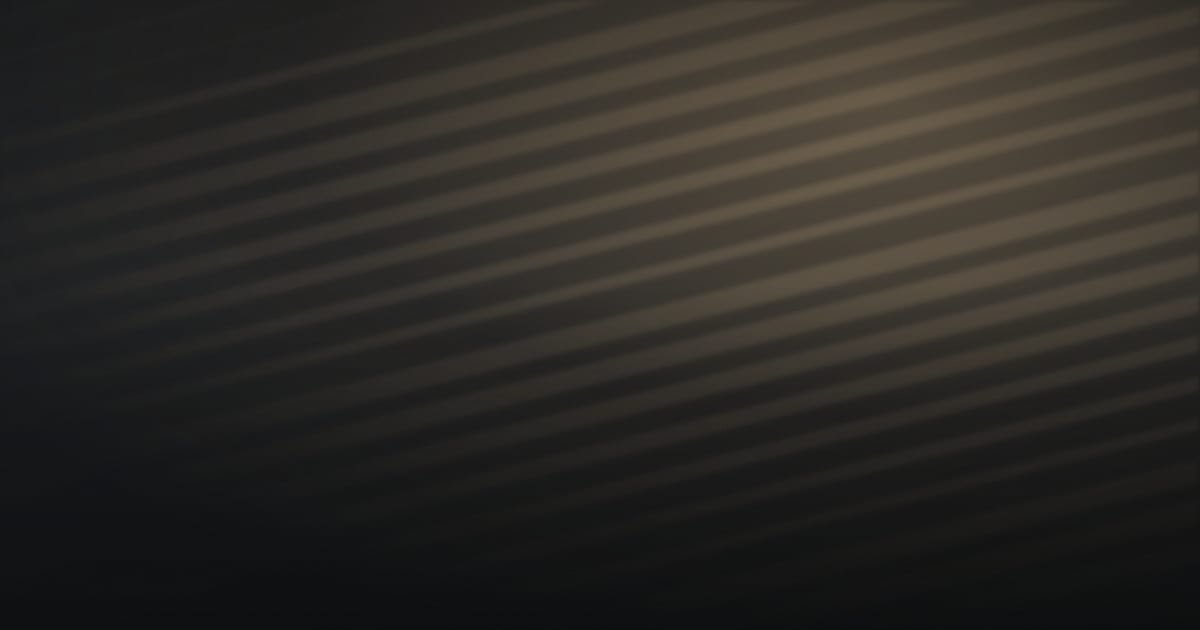
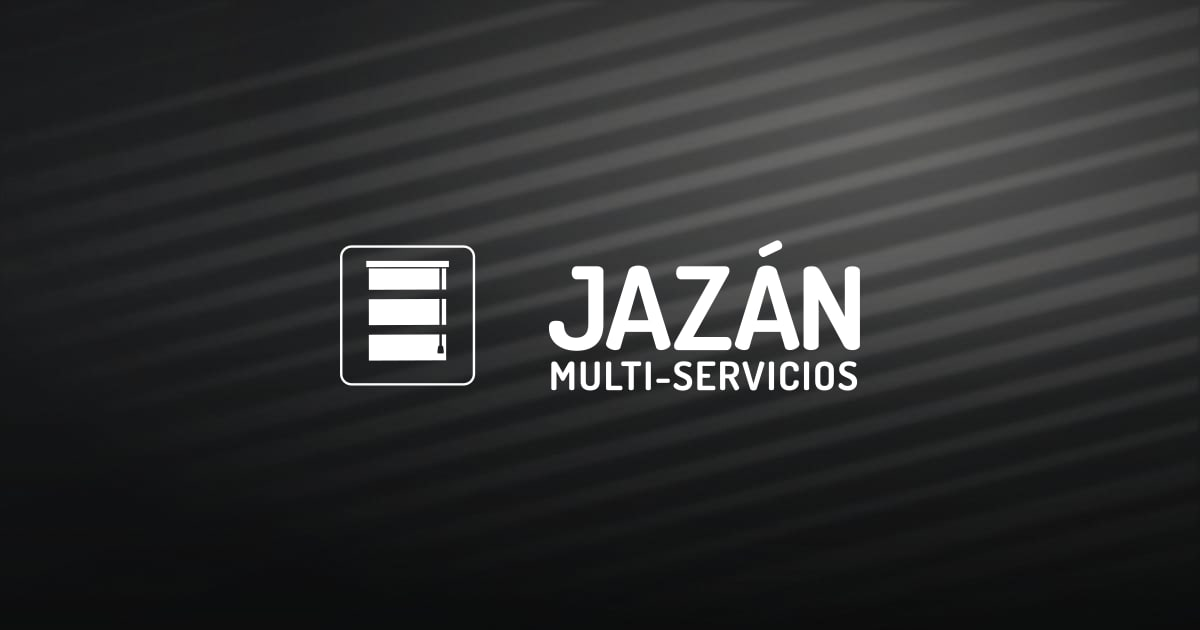
Aplica el logotipo oficial y pasa la paleta a monocromo
- Logotipo real vectorizado desde el PDF de marca: lockup e isotipo en
  /public/brand, y componente Logo con el trazado en línea para heredar
  currentColor (blanco sobre el hero, negro al hacer scroll).
- Favicon e icono de iOS derivados del mismo vector.
- Imagen de Open Graph con el logotipo compuesto.
- Se retira el acento dorado: el detalle ahora es negro, siguiendo el manual
  de marca (negro, blanco y gris). Imágenes regeneradas en escala de grises.

diff --git a/components/Logo.tsx b/components/Logo.tsx
@@ -2,21 +2,22 @@ import { company } from "@/data/company";
 import { cn } from "@/lib/utils";
 
 /**
- * Marca denominativa. Sin ícono a propósito: en móvil cualquier símbolo de
- * líneas compite visualmente con el botón de menú.
+ * Logotipo oficial de Jazán Multiservicios (isotipo + marca denominativa).
+ *
+ * El trazado hereda `currentColor`, así que la misma pieza sirve en blanco
+ * sobre el hero oscuro y en negro sobre fondo claro, sin cambiar de archivo.
+ * El vector original está en /public/brand/jazan-logo.svg.
  */
 export function Logo({ className }: { className?: string }) {
   return (
-    <span
-      className={cn("inline-flex flex-col leading-none", className)}
+    <svg
+      viewBox="190 157 2249 651"
+      role="img"
       aria-label={company.name}
+      className={cn("h-9 w-auto", className)}
+      fill="none"
     >
-      <span className="font-display text-[1.6rem] tracking-[-0.01em]">
-        Jazán
-      </span>
-      <span className="eyebrow mt-1 text-[0.5rem] opacity-55">
-        Multiservicios
-      </span>
-    </span>
+      <path transform="matrix(1,0,0,-1,1,963.64)" d="M239.28 774.26C217.37 774.26 199.54 756.66 199.54 735.02V227.61C199.54 205.98 217.37 188.38 239.28 188.38H723.36C745.28 188.38 763.1 205.98 763.1 227.61V735.02C763.1 756.66 745.28 774.26 723.36 774.26ZM723.36 178.11H239.28C211.63 178.11 189.13 200.32 189.13 227.61V735.02C189.13 762.32 211.63 784.53 239.28 784.53H723.36C751.01 784.53 773.51 762.32 773.51 735.02V227.61C773.51 200.32 751.01 178.11 723.36 178.11" fill="currentColor"/><path transform="matrix(1,0,0,-1,1,963.64)" d="M648.15 593.52 629.41 593.45V684.65H647.98ZM618.92 593.4 313.83 592.17 313.65 684.65H618.92Z" fill="currentColor"/><path transform="matrix(1,0,0,-1,1,963.64)" d="M648.15 440.78 629.41 440.7V552.73L647.93 552.8ZM618.92 440.66 313.83 439.42 313.61 551.45 618.92 552.69Z" fill="currentColor"/><path transform="matrix(1,0,0,-1,1,963.64)" d="M648.15 287.35 313.83 286 313.61 398.03 618.92 399.27V350.63H618.73C615.89 350.63 613.49 348.55 613.12 345.77L610.14 323.19C609.7 319.85 612.33 316.89 615.75 316.89H632.6C636 316.89 638.64 319.85 638.2 323.19L635.21 345.77C634.84 348.55 632.45 350.63 629.61 350.63H629.41V399.31L647.93 399.38Z" fill="currentColor"/><path transform="matrix(1,0,0,-1,1,963.64)" d="M302.69 717.31H659.95V690.49H302.69Z" fill="currentColor" fill-rule="evenodd"/><path transform="matrix(1,0,0,-1,1,963.64)" d="M1211.69 637.5C1198.62 637.5 1191.09 650.9 1191.09 666.27 1191.09 679.66 1197.13 694.04 1211.69 694.04H1299.63C1314.19 694.04 1328.27 687.1 1328.27 673.71V442.07C1328.27 359.25 1276 328.49 1212.7 328.49 1142.85 328.49 1092.62 365.69 1092.62 427.2 1092.62 451.99 1103.16 458.45 1125.28 458.45 1142.36 458.45 1156.42 453.98 1157.93 438.11 1158.92 413.31 1168.98 385.05 1209.67 385.05 1243.84 385.05 1262.94 403.38 1262.94 442.07V637.5Z" fill="currentColor"/><path transform="matrix(1,0,0,-1,1,963.64)" d="M1522.7 460.93 1478.98 613.2 1435.27 460.93ZM1339.3 358.24C1339.3 359.24 1339.8 361.23 1340.32 363.22L1437.29 675.19C1441.81 690.07 1460.39 697.02 1478.98 697.02 1498.07 697.02 1516.68 690.07 1521.18 675.19L1618.17 363.22C1618.67 361.23 1619.17 359.75 1619.17 358.24 1619.17 342.88 1595.55 331.48 1577.97 331.48 1566.93 331.48 1558.37 334.95 1555.85 344.36L1536.76 410.34H1421.71L1402.61 344.36C1400.1 334.95 1391.54 331.48 1380.51 331.48 1362.91 331.48 1339.3 342.38 1339.3 358.24" fill="currentColor"/><path transform="matrix(1,0,0,-1,1,963.64)" d="M1717.14 388.01H1861.85C1874.92 388.01 1882.46 373.14 1882.46 359.74 1882.46 346.35 1874.92 331.48 1861.85 331.48H1653.32C1639.76 331.48 1633.74 338.91 1633.74 349.33 1633.74 355.76 1636.24 364.2 1640.77 371.65L1790.01 637.5H1662.88C1649.82 637.5 1642.77 650.89 1642.77 665.78 1642.77 679.66 1648.81 694.05 1662.88 694.05H1853.81C1866.88 694.05 1873.41 686.6 1873.41 676.68 1873.41 669.74 1870.9 661.8 1865.87 653.38Z" fill="currentColor"/><path transform="matrix(1,0,0,-1,1,963.64)" d="M2027.14 735.72C2024.63 734.72 2022.61 733.73 2020.1 733.73 2009.05 733.73 1999.99 747.12 1999.99 758.03 1999.99 764.48 2002.5 770.42 2008.55 773.4L2074.86 805.14C2077.37 805.65 2079.38 806.14 2081.4 806.14 2092.97 806.14 2101.5 792.74 2101.5 781.83 2101.5 775.88 2098.99 769.93 2092.46 766.96ZM2079.88 460.93 2036.18 613.19 1992.46 460.93ZM1896.49 358.25C1896.49 359.25 1896.99 361.23 1897.5 363.22L1994.47 675.19C1998.99 690.06 2017.58 697.02 2036.18 697.02 2055.27 697.02 2073.86 690.06 2078.37 675.19L2175.36 363.22C2175.86 361.23 2176.36 359.75 2176.36 358.25 2176.36 342.87 2152.75 331.47 2135.16 331.47 2124.11 331.47 2115.57 334.94 2113.05 344.36L2093.96 410.34H1978.91L1959.8 344.36C1957.28 334.94 1948.74 331.47 1937.69 331.47 1920.1 331.47 1896.49 342.38 1896.49 358.25" fill="currentColor"/><path transform="matrix(1,0,0,-1,1,963.64)" d="M2367.28 351.81 2259.25 551.19V351.81C2259.25 338.42 2242.67 331.48 2226.6 331.48 2210.01 331.48 2193.94 338.42 2193.94 351.81V673.71C2193.94 687.6 2210.01 694.04 2226.6 694.04 2250.22 694.04 2259.75 689.07 2275.34 659.83L2372.31 474.81V674.2C2372.31 688.1 2388.39 694.04 2404.97 694.04 2421.05 694.04 2437.64 688.1 2437.64 674.2V351.81C2437.64 338.42 2421.05 331.48 2404.97 331.48 2389.4 331.48 2375.83 336.44 2367.28 351.81" fill="currentColor"/><path transform="matrix(1,0,0,-1,1,963.64)" d="M1160.13 202.76C1158.23 199.36 1155.29 198.34 1152.55 198.34 1149.77 198.34 1147.03 199.36 1145.12 202.76L1125.31 239.5V165.01C1125.31 160.4 1119.63 158.03 1114.11 158.03 1108.44 158.03 1102.91 160.4 1102.91 165.01V271.31C1102.91 279.48 1108.44 282.36 1114.11 282.36 1122.22 282.36 1125.82 280.67 1131.51 270.63L1152.72 232.53 1173.91 270.63C1179.6 280.67 1183.38 282.36 1191.48 282.36 1197.17 282.36 1202.68 279.48 1202.68 271.31V165.01C1202.68 160.4 1197.01 158.03 1191.48 158.03 1185.8 158.03 1180.28 160.4 1180.28 165.01V238.14Z" fill="currentColor"/><path transform="matrix(1,0,0,-1,1,963.64)" d="M1290.08 275.56C1290.08 280.33 1295.59 282.36 1301.28 282.36 1306.79 282.36 1312.48 280.33 1312.48 275.56V195.96C1312.48 167.55 1294.22 157 1271.13 157 1247.86 157 1229.78 167.55 1229.78 195.96V275.56C1229.78 280.33 1235.29 282.36 1240.97 282.36 1246.5 282.36 1252.18 280.33 1252.18 275.56V195.96C1252.18 182.69 1259.24 176.39 1271.13 176.39 1283.02 176.39 1290.08 182.69 1290.08 195.96Z" fill="currentColor"/><path transform="matrix(1,0,0,-1,1,963.64)" d="M1349.4 158.03C1344.41 158.03 1339.58 160.4 1339.58 165.01V275.56C1339.58 280.32 1345.09 282.36 1350.78 282.36 1356.29 282.36 1361.98 280.32 1361.98 275.56V177.42H1404.03C1408.5 177.42 1410.74 172.66 1410.74 167.73 1410.74 162.96 1408.5 158.03 1404.03 158.03Z" fill="currentColor"/><path transform="matrix(1,0,0,-1,1,963.64)" d="M1484.87 282.36C1489.7 282.36 1491.93 277.27 1491.93 272.51 1491.93 267.23 1489.34 262.47 1484.87 262.47H1459.71V165.01C1459.71 160.41 1454.04 158.03 1448.51 158.03 1442.83 158.03 1437.31 160.41 1437.31 165.01V262.47H1411.98C1407.5 262.47 1404.91 267.05 1404.91 272.51 1404.91 277.27 1407.15 282.36 1411.98 282.36Z" fill="currentColor"/><path transform="matrix(1,0,0,-1,1,963.64)" d="M1511.09 275.56C1511.09 280.33 1516.61 282.36 1522.3 282.36 1527.8 282.36 1533.49 280.33 1533.49 275.56V165.01C1533.49 160.4 1527.8 158.03 1522.3 158.03 1516.61 158.03 1511.09 160.4 1511.09 165.01Z" fill="currentColor"/><path transform="matrix(1,0,0,-1,1,963.64)" d="M1563.83 208.03H1608.64C1612.26 208.03 1615.88 203.95 1615.88 198.85 1615.88 193.4 1612.26 189.84 1608.64 189.84H1563.83C1559.71 189.84 1556.95 193.4 1556.95 198.85 1556.95 203.95 1559.71 208.03 1563.83 208.03" fill="currentColor"/><path transform="matrix(1,0,0,-1,1,963.64)" d="M1756.88 228.96H1783.08C1787.56 228.96 1790.14 224.7 1790.14 220.11 1790.14 216.2 1787.9 211.61 1783.08 211.61H1756.88V177.43H1805.64C1810.12 177.43 1812.71 172.82 1812.71 167.54 1812.71 162.95 1810.47 158.02 1805.64 158.02H1744.3C1739.31 158.02 1734.48 160.41 1734.48 165V275.4C1734.48 279.98 1739.31 282.37 1744.3 282.37H1805.64C1810.47 282.37 1812.71 277.42 1812.71 272.85 1812.71 267.57 1810.12 262.98 1805.64 262.98H1756.88Z" fill="currentColor"/><path transform="matrix(1,0,0,-1,1,963.64)" d="M1855.14 262.98V226.74H1874.1C1885.29 226.74 1892.53 231.34 1892.53 244.77 1892.53 258.21 1885.29 262.98 1874.1 262.98ZM1832.74 275.56C1832.74 279.14 1835.67 282.36 1839.98 282.36H1874.1C1896.66 282.36 1914.92 273.86 1914.92 246.82 1914.92 227.25 1905.28 216.7 1892.36 212.8L1914.92 171.46C1915.62 170.62 1915.8 169.42 1915.8 168.75 1915.8 163.14 1908.38 157.18 1901.84 157.18 1898.74 157.18 1895.81 159.05 1894.07 162.45L1869.62 209.4H1855.14V165.01C1855.14 160.4 1849.64 158.03 1843.95 158.03 1838.43 158.03 1832.74 160.4 1832.74 165.01Z" fill="currentColor"/><path transform="matrix(1,0,0,-1,1,963.64)" d="M2043.89 275.56C2043.89 280.33 2049.41 282.36 2055.1 282.36 2060.61 282.36 2066.3 280.33 2066.3 275.56V165.01C2066.3 160.4 2060.61 158.03 2055.1 158.03 2049.41 158.03 2043.89 160.4 2043.89 165.01Z" fill="currentColor"/><path transform="matrix(1,0,0,-1,1,963.64)" d="M2133.16 262.98C2121.62 262.98 2115.07 256.69 2115.07 243.41V195.95C2115.07 182.7 2121.62 176.39 2133.49 176.39 2149.18 176.39 2150.56 187.45 2151.09 194.59 2151.43 199.87 2156.25 201.57 2162.11 201.57 2169.86 201.57 2173.49 199.36 2173.49 190.69 2173.49 170.1 2156.42 157 2132.3 157 2110.58 157 2092.67 167.55 2092.67 195.95V243.41C2092.67 271.82 2110.76 282.36 2132.47 282.36 2156.42 282.36 2173.49 269.78 2173.49 250.05 2173.49 241.2 2169.86 239.15 2162.28 239.15 2155.9 239.15 2151.25 241.04 2151.09 246.14 2150.73 251.41 2149.54 262.98 2133.16 262.98" fill="currentColor"/><path transform="matrix(1,0,0,-1,1,963.64)" d="M2195.58 275.56C2195.58 280.33 2201.1 282.36 2206.79 282.36 2212.29 282.36 2217.98 280.33 2217.98 275.56V165.01C2217.98 160.4 2212.29 158.03 2206.79 158.03 2201.1 158.03 2195.58 160.4 2195.58 165.01Z" fill="currentColor"/><path transform="matrix(1,0,0,-1,1,963.64)" d="M2302.59 243.41C2302.59 256.85 2295.71 262.98 2284.51 262.98 2273.13 262.98 2266.58 256.85 2266.58 243.41V195.95C2266.58 182.52 2273.13 176.39 2284.51 176.39 2295.71 176.39 2302.59 182.52 2302.59 195.95ZM2244.19 195.95V243.41C2244.19 271.82 2261.75 282.36 2284.51 282.36 2307.24 282.36 2324.99 271.82 2324.99 243.41V195.95C2324.99 167.55 2307.24 157 2284.51 157 2261.75 157 2244.19 167.55 2244.19 195.95" fill="currentColor"/><path transform="matrix(1,0,0,-1,1,963.64)" d="M1689.81 191.19C1689.81 216.7 1634.51 208.88 1634.51 249.19 1634.51 274.54 1656.56 283.21 1676.37 283.21 1686.54 283.21 1709.12 280.83 1709.12 269.61 1709.12 265.7 1706.36 257.87 1700.17 257.87 1694.82 257.87 1690.85 264.33 1676.37 264.33 1663.98 264.33 1656.91 259.4 1656.91 251.23 1656.91 230.14 1712.22 237.47 1712.22 193.41 1712.22 169.08 1694.99 156.5 1671.22 156.5 1648.64 156.5 1631.41 167.73 1631.41 177.59 1631.41 182.36 1635.89 189.49 1641.24 189.49 1648.29 189.49 1652.95 176.39 1670.53 176.39 1680.87 176.39 1689.81 180.98 1689.81 191.19" fill="currentColor"/><path transform="matrix(1,0,0,-1,1,963.64)" d="M1929.44 271.48C1929.27 272.16 1929.1 272.84 1929.1 273.19 1929.1 278.62 1937.19 282.36 1943.22 282.36 1947.01 282.36 1949.95 281.18 1950.8 277.94L1977.17 185.76 2003.36 277.94C2004.22 281.18 2007.15 282.36 2010.94 282.36 2016.97 282.36 2025.07 278.46 2025.07 273.19 2025.07 272.67 2024.9 272.16 2024.74 271.48L1991.65 164.49C1990.09 159.39 1983.72 157 1977.17 157 1970.62 157 1964.41 159.39 1962.69 164.49Z" fill="currentColor"/><path transform="matrix(1,0,0,-1,1,963.64)" d="M2403.26 191.19C2403.26 216.7 2347.96 208.88 2347.96 249.19 2347.96 274.54 2370.01 283.21 2389.82 283.21 2399.99 283.21 2422.56 280.83 2422.56 269.61 2422.56 265.7 2419.8 257.87 2413.62 257.87 2408.27 257.87 2404.3 264.33 2389.82 264.33 2377.43 264.33 2370.36 259.4 2370.36 251.23 2370.36 230.14 2425.66 237.47 2425.66 193.41 2425.66 169.08 2408.44 156.5 2384.67 156.5 2362.08 156.5 2344.86 167.73 2344.86 177.59 2344.86 182.36 2349.34 189.49 2354.69 189.49 2361.74 189.49 2366.39 176.39 2383.97 176.39 2394.31 176.39 2403.26 180.98 2403.26 191.19" fill="currentColor"/>
+    </svg>
   );
 }

diff --git a/sections/Contacto.tsx b/sections/Contacto.tsx
@@ -13,7 +13,7 @@ export function Contacto() {
         <div id="cotizar" className="grid grid-cols-1 gap-16 lg:grid-cols-12 lg:gap-20">
           <div className="lg:col-span-5">
             <Reveal>
-              <p className="eyebrow text-brass">Contacto</p>
+              <p className="eyebrow text-muted">Contacto</p>
               <h2 className="mt-5 font-display text-[clamp(2rem,4vw,3rem)] leading-[1.07] tracking-[-0.01em] text-ink text-balance">
                 Solicita tu cotización
               </h2>
@@ -38,7 +38,7 @@ export function Contacto() {
                 <h3 className="eyebrow text-muted">Teléfono / WhatsApp</h3>
                 <a
                   href={telUrl}
-                  className="mt-2 block text-ink transition-colors hover:text-brass"
+                  className="mt-2 block text-ink transition-colors hover:text-ink"
                 >
                   {company.phoneDisplay}
                 </a>
@@ -47,7 +47,7 @@ export function Contacto() {
                 <h3 className="eyebrow text-muted">Correo</h3>
                 <a
                   href={mailUrl}
-                  className="mt-2 block text-ink transition-colors hover:text-brass"
+                  className="mt-2 block text-ink transition-colors hover:text-ink"
                 >
                   {company.email}
                 </a>
@@ -85,7 +85,7 @@ export function Contacto() {
             href={company.maps.link}
             target="_blank"
             rel="noopener noreferrer"
-            className="text-sm text-muted underline-offset-4 transition-colors hover:text-brass hover:underline"
+            className="text-sm text-muted underline-offset-4 transition-colors hover:text-ink hover:underline"
           >
             Abrir en Google Maps
           </a>

diff --git a/app/soluciones/[slug]/page.tsx b/app/soluciones/[slug]/page.tsx
@@ -66,7 +66,7 @@ export default async function SolutionPage({ params }: Params) {
               Soluciones
             </Link>
             <span className="mx-2">/</span>
-            <span className="text-brass-soft">{solution.name}</span>
+            <span className="text-paper/55">{solution.name}</span>
           </nav>
           <h1 className="mt-6 max-w-3xl font-display text-[clamp(2.4rem,6vw,4.6rem)] leading-[1.04] tracking-[-0.02em] text-paper text-balance">
             {solution.name}
@@ -91,7 +91,7 @@ export default async function SolutionPage({ params }: Params) {
                     key={highlight}
                     className="flex items-baseline gap-4 py-5 text-[0.98rem] text-ink-soft"
                   >
-                    <span className="h-1 w-1 shrink-0 rounded-full bg-brass" />
+                    <span className="h-1 w-1 shrink-0 rounded-full bg-ink" />
                     {highlight}
                   </li>
                 ))}
@@ -130,7 +130,7 @@ export default async function SolutionPage({ params }: Params) {
         <Container>
           <div className="grid grid-cols-1 gap-16 lg:grid-cols-12 lg:gap-20">
             <Reveal className="lg:col-span-5">
-              <p className="eyebrow text-brass">Cotización</p>
+              <p className="eyebrow text-muted">Cotización</p>
               <h2 className="mt-5 font-display text-[clamp(2rem,4vw,3rem)] leading-[1.07] text-ink text-balance">
                 Pide tu propuesta de {solution.name.toLowerCase()}
               </h2>

diff --git a/sections/Soluciones.tsx b/sections/Soluciones.tsx
@@ -50,7 +50,7 @@ export function Soluciones() {
               <div className="mt-6 flex flex-wrap items-center gap-x-6 gap-y-3 text-sm">
                 <Link
                   href={`/soluciones/${solution.slug}`}
-                  className="inline-flex items-center gap-1.5 font-medium text-ink transition-colors hover:text-brass"
+                  className="inline-flex items-center gap-1.5 font-medium text-ink transition-colors hover:text-ink"
                 >
                   Más información
                   <ArrowIcon className="h-3.5 w-3.5 transition-transform duration-300 group-hover:translate-x-1" />
@@ -59,7 +59,7 @@ export function Soluciones() {
                   href={whatsappForSolution(solution.name)}
                   target="_blank"
                   rel="noopener noreferrer"
-                  className="text-muted underline-offset-4 transition-colors hover:text-brass hover:underline"
+                  className="text-muted underline-offset-4 transition-colors hover:text-ink hover:underline"
                 >
                   Cotizar
                 </a>

diff --git a/app/globals.css b/app/globals.css
@@ -2,14 +2,18 @@
 
 @theme {
   /* Paleta: neutros cálidos de obra + un latón discreto como único acento. */
-  --color-paper: #f7f5f1;
-  --color-paper-deep: #efece5;
-  --color-ink: #16181b;
-  --color-ink-soft: #3a3d41;
-  --color-muted: #6f6d67;
-  --color-line: #ddd8cf;
-  --color-brass: #a8813f;
-  --color-brass-soft: #c4a675;
+  --color-paper: #f7f6f4;
+  --color-paper-deep: #eceae7;
+  --color-ink: #111111;
+  --color-ink-soft: #33363a;
+  --color-muted: #6e6e6e;
+  --color-line: #dcdad5;
+  /* Acento monocromo: el detalle se marca con negro, no con color. */
+  --color-accent: #111111;
+  --color-accent-soft: #8c8c8c;
+  /* Rojo corporativo del manual de marca. Reservado: no se usa en la
+     interfaz, queda disponible por si hace falta un acento puntual. */
+  --color-brand-red: #e4002b;
   --color-whatsapp: #25d366;
 
   --font-sans: var(--font-inter), ui-sans-serif, system-ui, sans-serif;
@@ -57,7 +61,7 @@
   }
 
   :focus-visible {
-    outline: 2px solid var(--color-brass);
+    outline: 2px solid var(--color-ink);
     outline-offset: 3px;
   }
 

diff --git a/sections/Automatizacion.tsx b/sections/Automatizacion.tsx
@@ -12,7 +12,7 @@ export function Automatizacion() {
         <div className="grid grid-cols-1 items-center gap-16 lg:grid-cols-12">
           <div className="lg:col-span-5">
             <Reveal>
-              <p className="eyebrow text-brass">Automatización</p>
+              <p className="eyebrow text-muted">Automatización</p>
               <h2 className="mt-5 font-display text-[clamp(2.1rem,4.2vw,3.4rem)] leading-[1.06] tracking-[-0.01em] text-ink text-balance">
                 Tu espacio. Ahora más inteligente.
               </h2>
@@ -31,7 +31,7 @@ export function Automatizacion() {
                   delay={index * 60}
                   className="flex items-baseline gap-3 border-t border-line pt-4 text-[0.95rem] text-ink-soft"
                 >
-                  <span className="h-1 w-1 shrink-0 translate-y-[-0.15em] rounded-full bg-brass" />
+                  <span className="h-1 w-1 shrink-0 translate-y-[-0.15em] rounded-full bg-ink" />
                   {benefit}
                 </Reveal>
               ))}

diff --git a/sections/Shutters.tsx b/sections/Shutters.tsx
@@ -21,7 +21,7 @@ export function Shutters() {
         <div className="flex items-center px-6 py-24 sm:px-12 lg:px-16 xl:px-24">
           <div className="max-w-xl">
             <Reveal>
-              <p className="eyebrow text-brass-soft">Shutters</p>
+              <p className="eyebrow text-paper/55">Shutters</p>
               <h2 className="mt-5 font-display text-[clamp(2.1rem,4.2vw,3.4rem)] leading-[1.06] tracking-[-0.01em] text-paper text-balance">
                 Privacidad cuando la necesitas.
               </h2>

diff --git a/components/Footer.tsx b/components/Footer.tsx
@@ -29,7 +29,7 @@ export function Footer() {
                       href={social.url}
                       target="_blank"
                       rel="noopener noreferrer"
-                      className="text-sm text-paper/60 underline-offset-4 transition-colors hover:text-brass-soft hover:underline"
+                      className="text-sm text-paper/60 underline-offset-4 transition-colors hover:text-paper hover:underline"
                     >
                       {social.name}
                     </a>

diff --git a/components/QuoteForm.tsx b/components/QuoteForm.tsx
@@ -70,7 +70,7 @@ export function QuoteForm({ defaultProduct }: { defaultProduct?: string }) {
   if (status === "sent") {
     return (
       <div className="flex min-h-[420px] flex-col justify-center">
-        <p className="eyebrow text-brass">Solicitud enviada</p>
+        <p className="eyebrow text-muted">Solicitud enviada</p>
         <h3 className="mt-5 font-display text-3xl leading-tight text-ink">
           Gracias, {data.name.split(" ")[0]}.
         </h3>

diff --git a/app/not-found.tsx b/app/not-found.tsx
@@ -5,7 +5,7 @@ export default function NotFound() {
   return (
     <section className="flex min-h-[80vh] items-center bg-ink">
       <Container>
-        <p className="eyebrow text-brass-soft">Error 404</p>
+        <p className="eyebrow text-paper/55">Error 404</p>
         <h1 className="mt-5 max-w-2xl font-display text-[clamp(2.2rem,5vw,4rem)] leading-[1.05] text-paper text-balance">
           No encontramos la página que buscas.
         </h1>

diff --git a/components/Button.tsx b/components/Button.tsx
@@ -14,8 +14,8 @@ const variants: Record<Variant, string> = {
   light:
     "border border-paper/30 text-paper hover:border-paper hover:bg-paper hover:text-ink",
   whatsapp: "bg-whatsapp text-[#07301a] hover:brightness-105",
-  ghost: "text-ink hover:text-brass",
-  paper: "bg-paper text-ink hover:bg-brass-soft",
+  ghost: "text-ink hover:text-ink",
+  paper: "bg-paper text-ink hover:bg-paper-deep",
 };
 
 const sizes: Record<Size, string> = {

diff --git a/sections/Proceso.tsx b/sections/Proceso.tsx
@@ -21,7 +21,7 @@ export function Proceso() {
               delay={index * 90}
               className="flex flex-col bg-paper p-8 lg:p-10"
             >
-              <span className="font-display text-4xl text-brass/70">
+              <span className="font-display text-4xl text-ink/20">
                 {step.number}
               </span>
               <h3 className="mt-8 font-display text-xl leading-snug text-ink">
